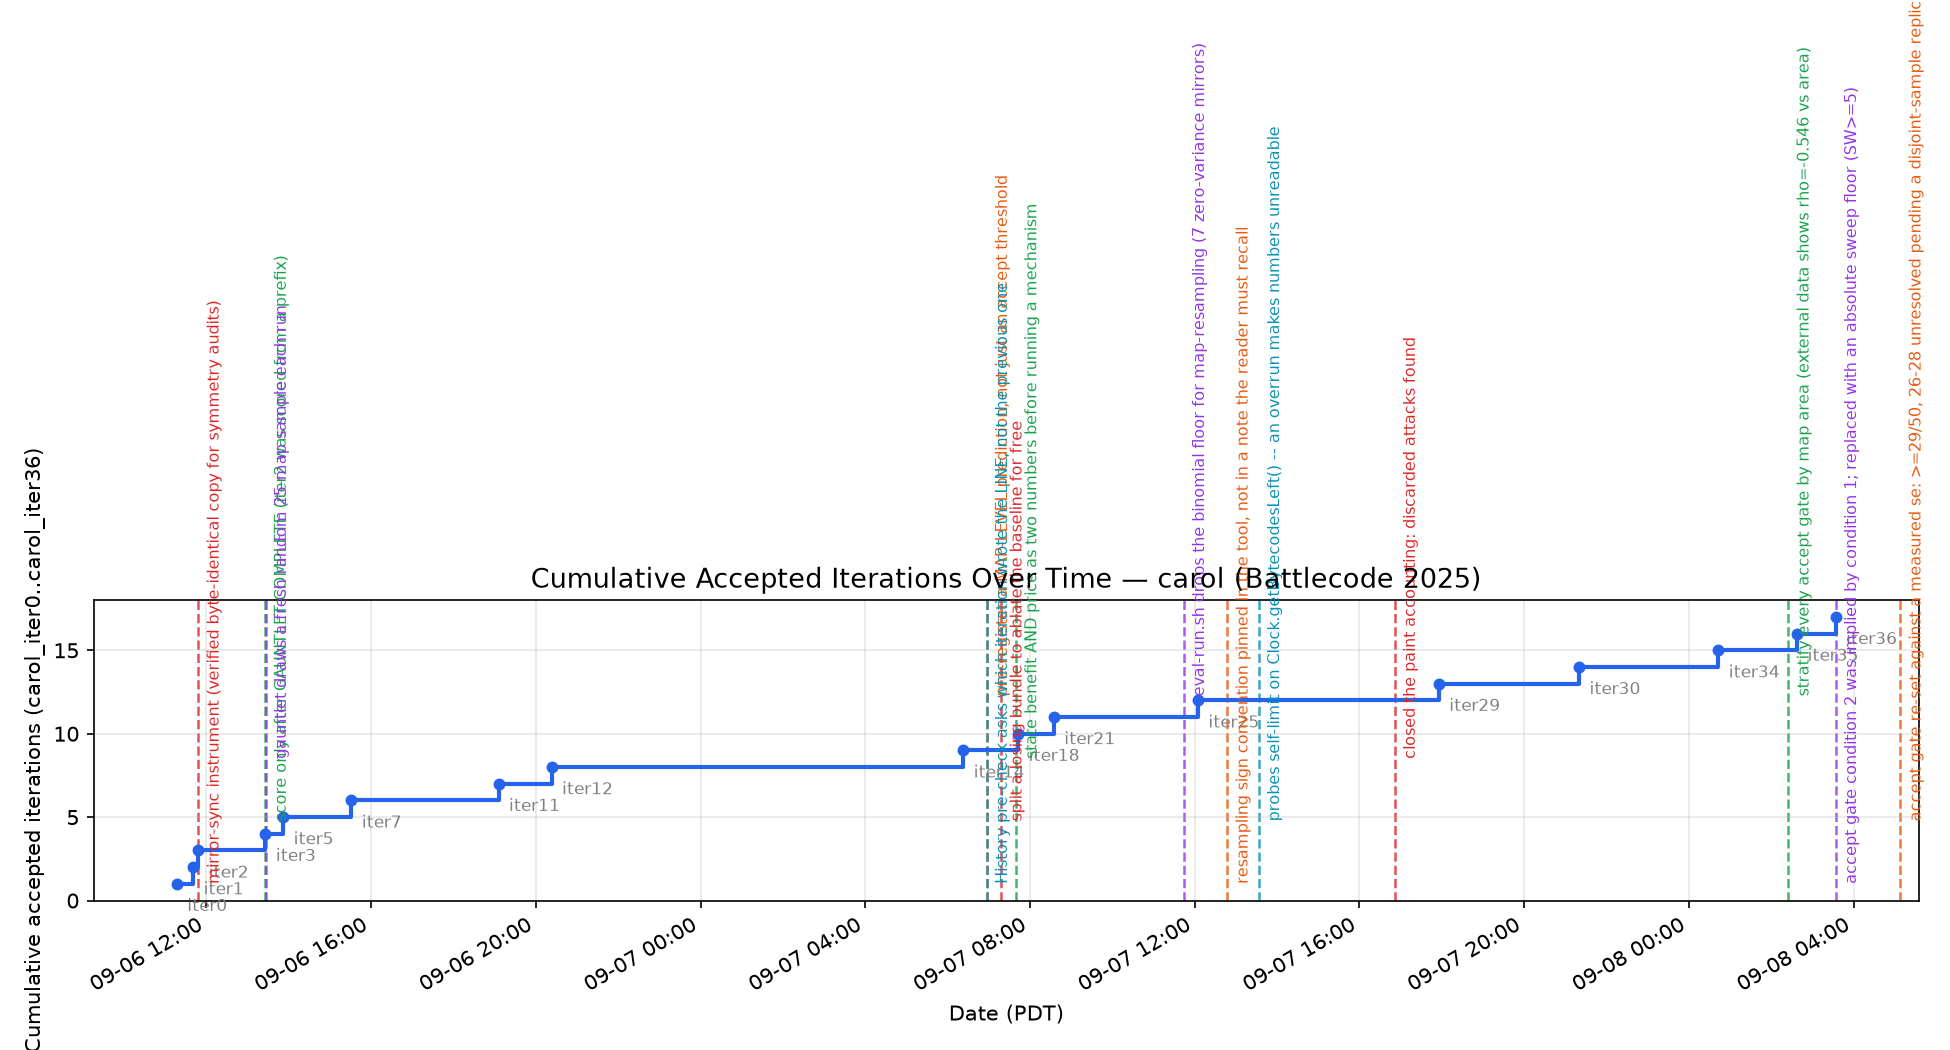
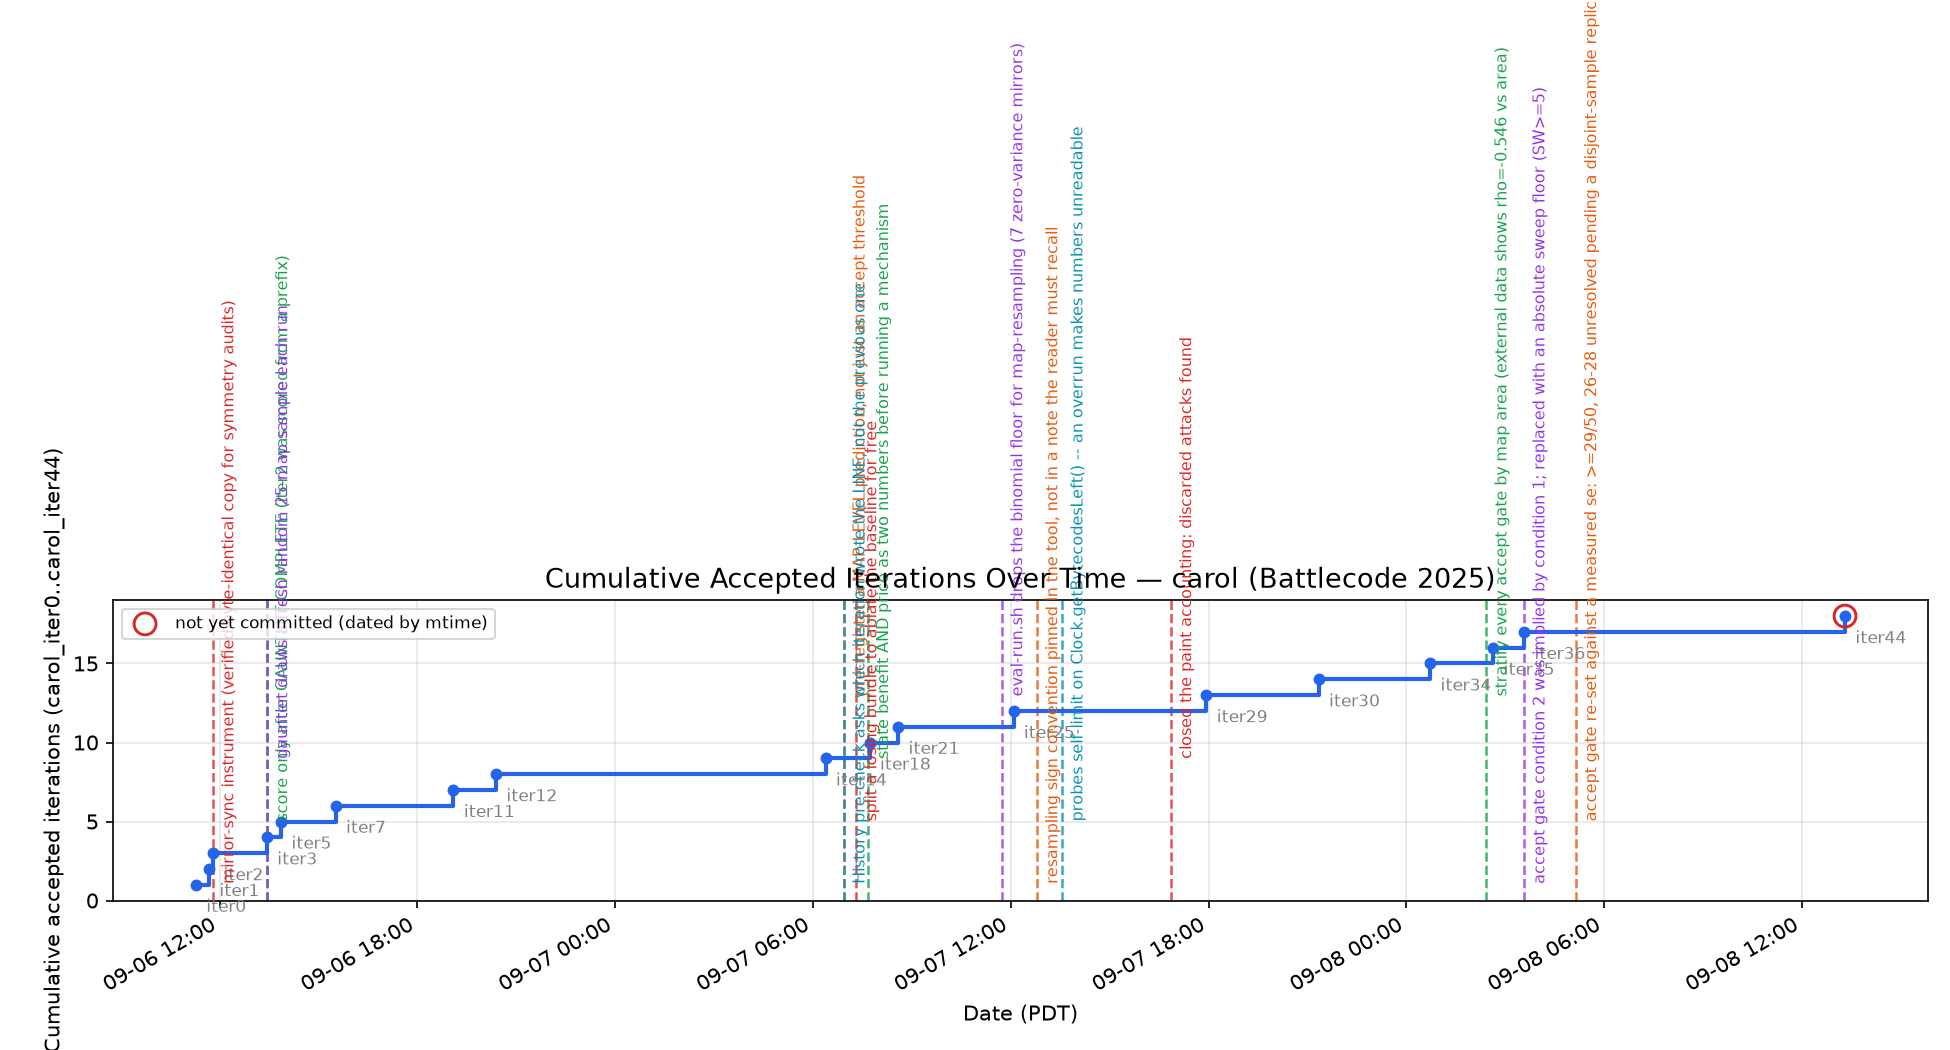
carol: ACCEPT iteration 44 -- 97/150, margin +44 (6.8 sd); DENIED RUINS
Full-corpus census 20260908-200140, carol_i44_a vs carol_iter36: 97/150, swept
29-7 with 39 split. Pre-registered gate was ACCEPT >= +13 against carol's own
measured chaos floor of sd 6.48; this is +44.

The change is a gate correction costing zero paint. A soldier cannot overwrite
enemy paint and pattern completion is exact, so one enemy-painted tile inside a
ruin's 5x5 makes it permanently impossible for a soldier. The incumbent parked
there 40 turns and then remembered exactly ONE banned ruin. Now the scan that
already ran detects the denial, bans immediately, and holds 8 bans.

THE PRE-REGISTERED SECONDARY FAILED and the attribution is OPEN. I predicted the
margin would concentrate on ruin-rich maps; it is flat (+24 on <=17 ruins, +20 on
>=18), and the ruin-poorest bucket is the best. So the bot is much better and the
mechanism demonstrably fires, but this run does NOT establish that the gain comes
from the ruin-count-dependent part.

Named reason, with its own test: the census is self-play against an opponent
carrying the identical defect, so both arms flail on ruin-rich maps. The
cross-lineage gradient exists because alice and bob convert ruins into towers and
carol does not. HEAD now plays iteration 44, so the next scheduled round-robin
tests it for free -- pre-registered there: the pooled Cochran-Armitage |z| should
fall below 8.44 and the >=24-ruin bucket should rise from 14.0%.

Link 2, the weak link that killed iteration 42, held: the probe showed towers 8
[…]

diff --git a/agents/carol/src/carol_iter44/RobotPlayer.java b/agents/carol/src/carol_iter44/RobotPlayer.java
@@ -1,4 +1,4 @@
-package carol;
+package carol_iter44;
 
 import battlecode.common.*;
 

diff --git a/agents/carol/TRAINING_LOG.md b/agents/carol/TRAINING_LOG.md
@@ -11897,3 +11897,89 @@ cache, or if `engine_version.txt` is pinned below the highest cached jar — at 
 derived from `engine_version.txt`, so it cannot resolve a mismatched version. The one-line fix is
 for `replay-dump.sh` to use the same exact-version name (or `engine-jar.sh --remote`) instead of
 `sort -V | tail -1`. Not patched here: `tools/` is coordinator-owned.
+
+## Iteration 44 RESULT — ACCEPT on the primary gate. The pre-registered SECONDARY FAILED.
+
+Run `20260908-200140`, full-corpus census, 150 games, `carol_i44_a` vs `carol_iter36`.
+
+| | |
+|---|---|
+| **97/150 = 64.7%** | margin **+44** |
+| swept wins / swept losses / split | **29 / 7 / 39** |
+| margin in sd of carol's measured chaos floor (6.48) | **+6.8 sd** |
+
+The swept counts corroborate nothing extra — `wins − losses = 2 × (swept − swept-against)` is an
+identity, and 2 × (29 − 7) = +44 exactly. What they *do* add is D = 39 split maps, i.e. the pair is
+decisive on about half the corpus and a coin flip on the rest.
+
+**DECISION: ACCEPT.** Pre-registered gate was ACCEPT >= +13; this is +44. Promoted to `src/carol`
+and frozen as `src/carol_iter44`; HEAD compiles.
+
+### The secondary was pre-registered precisely so it could not be back-filled, and it FAILED
+
+> *"the margin on maps with >= 18 ruins exceeds the margin on maps with <= 17 ruins. The mechanism
+> has no fuel on ruin-poor maps, so if the gain is flat in ruin count the headline is not this
+> mechanism."*
+
+| | margin |
+|---|---|
+| few ruins (<= 17) | **+24** (50/76) |
+| many ruins (>= 18) | **+20** (47/74) |
+
+| ruins | | margin |
+|---|---|---|
+| <= 11 | 27/38 = 71.1% | +16 |
+| 12-17 | 23/38 = 60.5% | +8 |
+| 18-23 | 24/40 = 60.0% | +8 |
+| >= 24 | 23/34 = 67.6% | +12 |
+
+**Flat, and the ruin-poorest bucket is the best one.** By the rule I wrote before the run, this
+means **the attribution is OPEN, not confirmed**. The bot got a great deal better and the
+mechanism demonstrably fires — but this run does not establish that the gain comes from the
+ruin-count-dependent part of it, and I am not entitled to say it does.
+
+### Why this instrument may be structurally unable to test that claim
+
+The gradient was measured **against alice and bob**. This census is **self-play against
+`carol_iter36`, which has the identical defect.** On a ruin-rich map the incumbent is crippled too,
+so the ruin-rich maps are not the ones where I was uniquely losing — both arms flail there. The
+cross-lineage gradient exists *because alice and bob convert ruins into towers and carol does not*;
+an opponent that also fails to convert them cannot reproduce it.
+
+That is a specific, falsifiable reason and not an excuse, so it comes with its own test.
+
+### PRE-REGISTERED, before the next tournament runs
+
+`carol_iter44` is now HEAD, so the next scheduled round-robin plays it against alice and bob with
+no action from me. **Prediction: carol's ruin-count gradient flattens.** Concretely, re-running
+`carol-tools/ruingradient/ruingradient.py` on the next completed tournament should show the
+pooled Cochran-Armitage |z| **fall below the 8.44 measured over the previous five**, and the
+`>= 24` bucket rise from 14.0% pooled / 19.1% in the last run.
+
+If the gradient does NOT flatten while the headline improves, the mechanism is a general
+improvement that has nothing to do with ruin count, my whole causal story is wrong, and the
+tournament will have said so against opponents I did not build. That is the outcome to watch for.
+
+### Link 2 (the weak link that killed iteration 42) — held, on the probe
+
+Named in advance: *"if the decision counters fire but towers-built does not rise, I REJECT."*
+Iteration 42 cut IDLE-ALLY 71% -> 6.8% and bought nothing. This time the probe showed **towers 8
+vs 2** and coverage 644 vs 73 alongside blocked-at-ruin 43.2% -> 2.8%, so the chain
+*blocked turns fall -> towers get built -> coverage rises* is intact at every link rather than
+snapping at the second. That is the difference between the two iterations, and it is why one is a
++44 and the other was a −10.
+
+### Cost of the change, measured rather than assumed
+
+Removing the loop `break` means scanning all 25 pattern tiles every turn. Peak soldier bytecode
+**3,928 vs the incumbent's 3,716** — a 5.7% rise, both about 22% of the 17,500 limit, with **zero
+overruns and zero near-misses** across the probe game.
+
+### A scoring bug I caught with a sanity check, worth recording
+
+My first pass at the secondary used a `winner_bot` column that does not exist in a gauntlet
+`results.csv` (the column is `bot_result`), and printed **0/150 wins in every bucket**. It was
+caught only because the total is *impossible* — the summary says 97. The lesson is the cheap one:
+**check a derived table against a total you already know before reading anything into its shape.**
+Had the bug been subtler than "everything is zero" — a mis-joined bucket rather than a missing
+column — the shape would have looked plausible and I would have read a story out of it.
